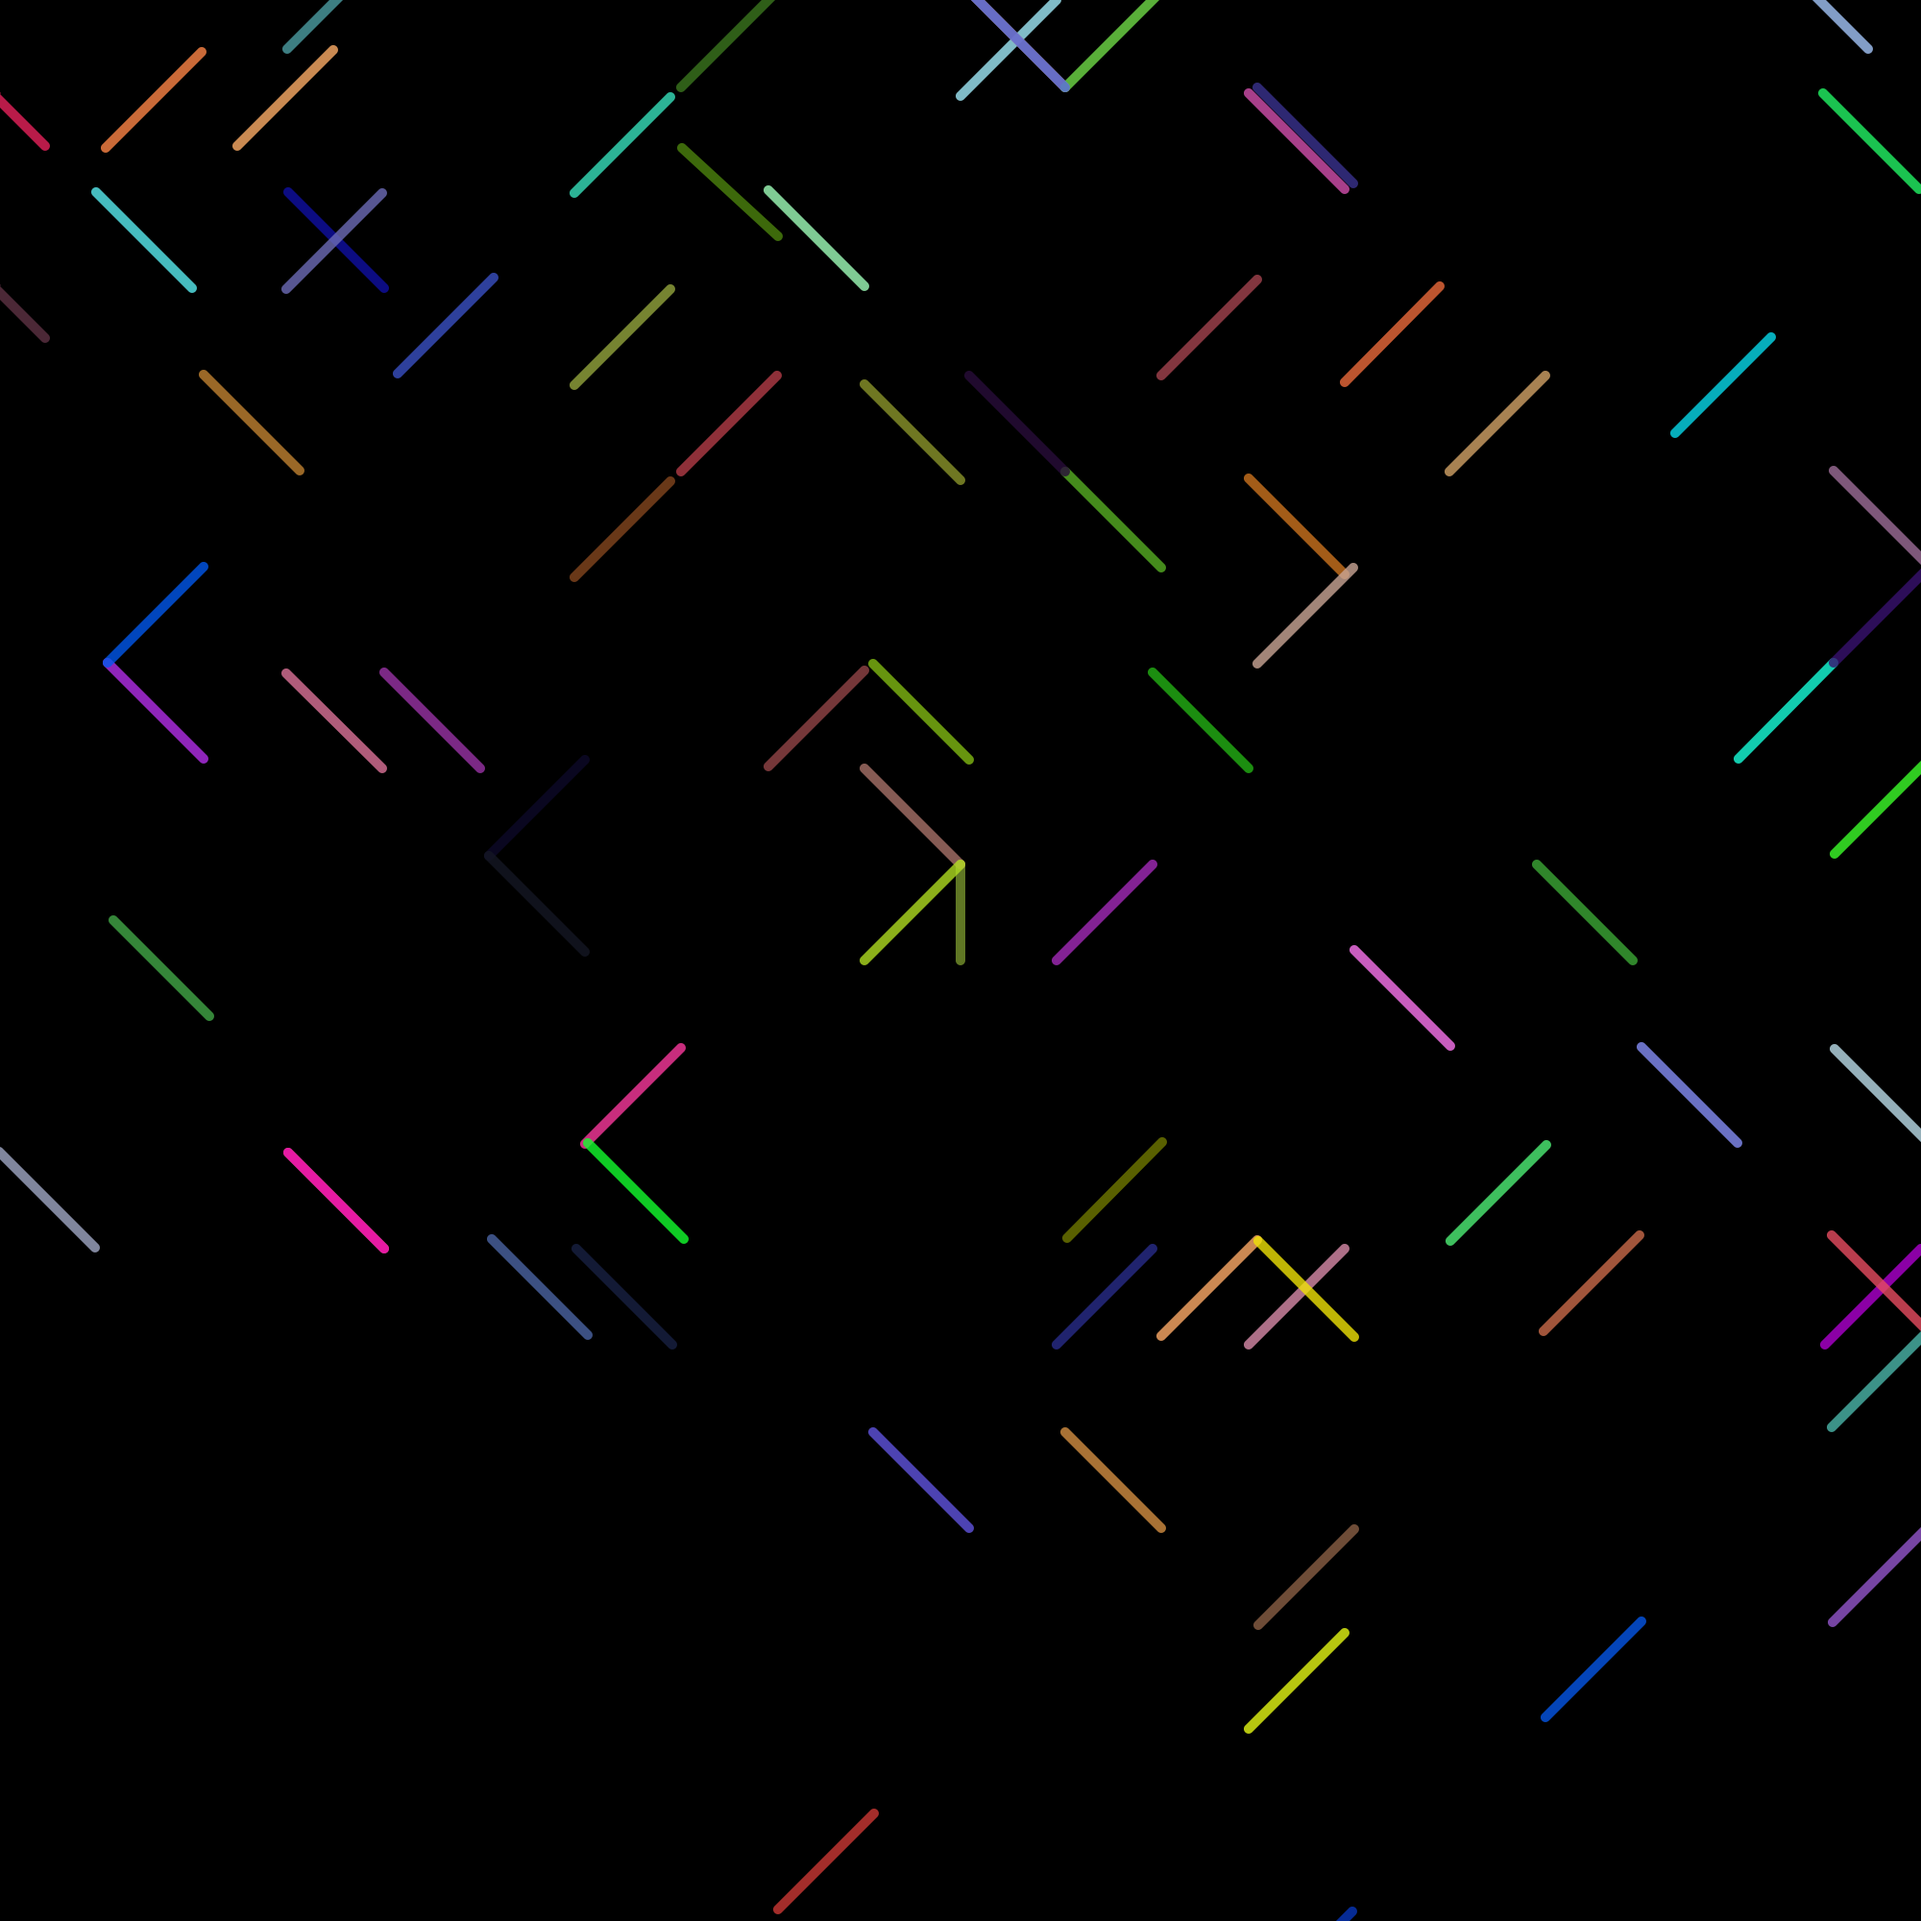
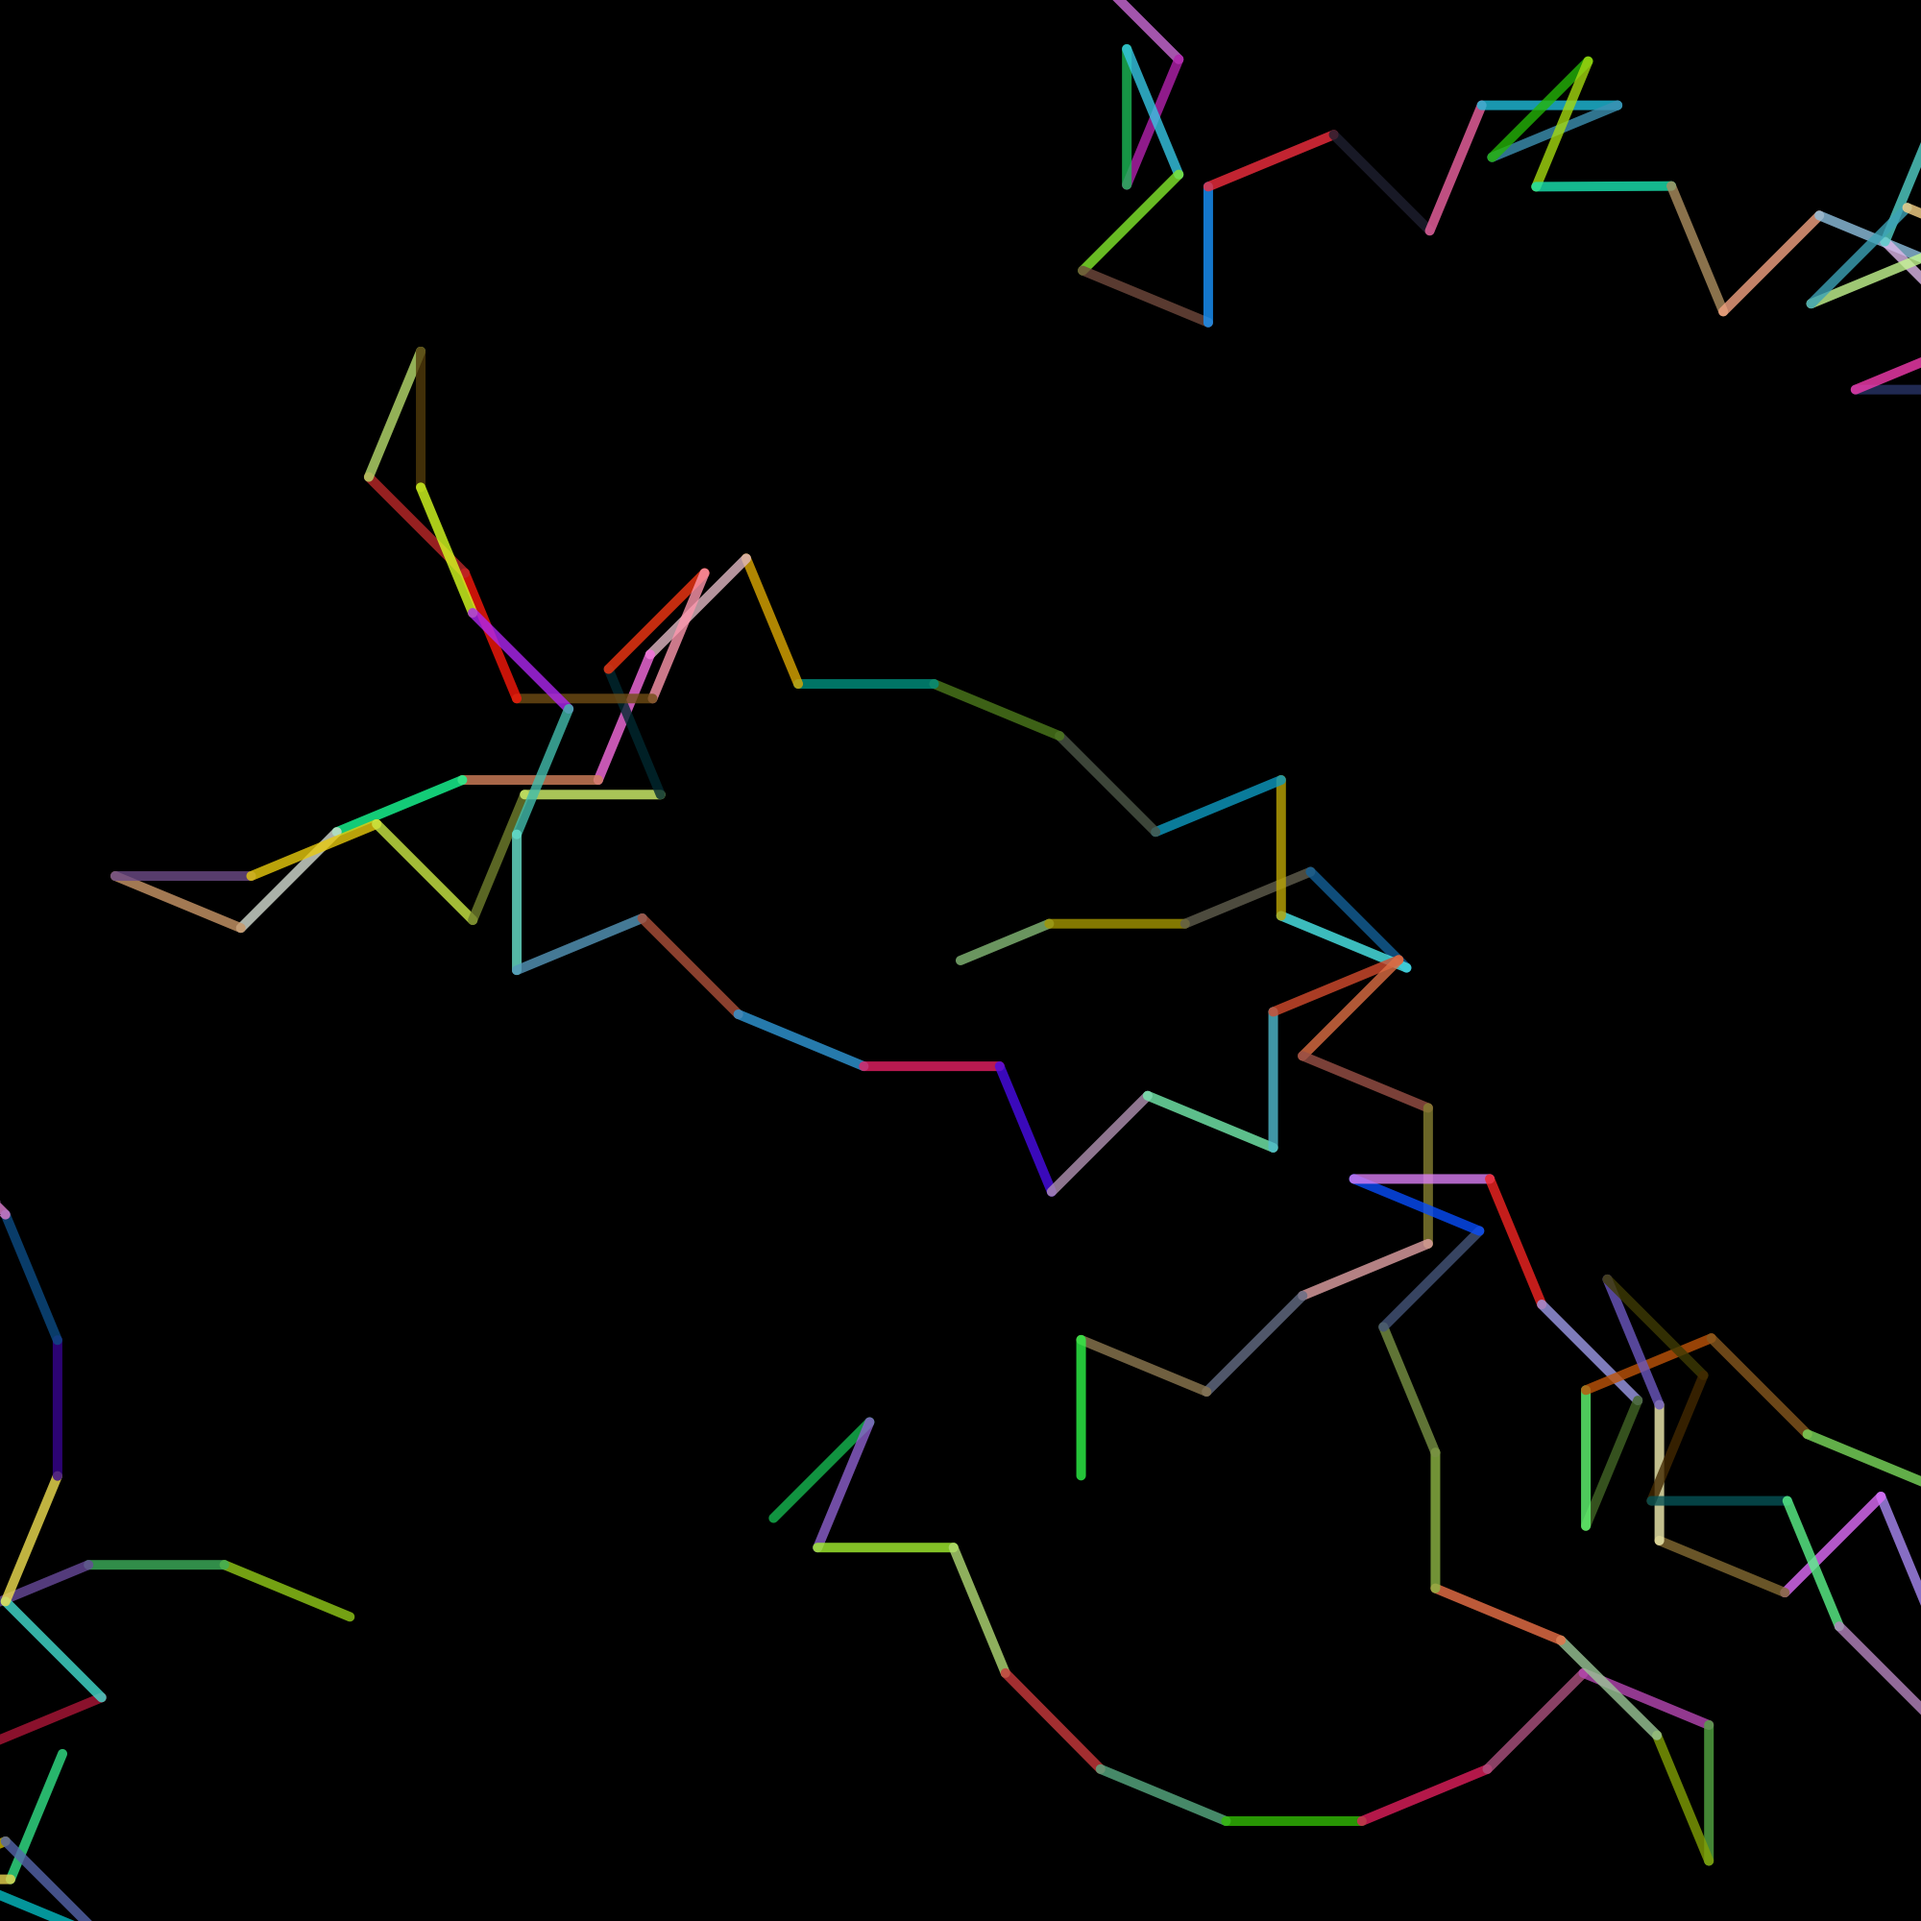
trying different params

diff --git a/main.go b/main.go
@@ -44,14 +44,14 @@ func getFFTCoeffs(filePath string, ts int) []complex128 {
 func drawSection(dc *gg.Context, section []complex128, cx, cy float64, rotationFactor float64) {
 	dc.MoveTo(cx, cy)
 	rand.Seed(time.Now().UnixNano())
-	dc.RotateAbout(-math.Pi/rotationFactor, cx, cy)
+	dc.RotateAbout(-math.Pi/8, cx, cy)
 	currentX, currentY := cx, cy
 	for _, num := range section {
 		x, y := real(num), imag(num)
 		x, y = normalize(x), normalize(y)
 		dc.MoveTo(currentX, currentY)
 		dc.LineTo(currentX+x, currentY+y)
-		dc.RotateAbout(-math.Pi/rotationFactor, cx+x, cy+y)
+		dc.RotateAbout(-math.Pi/8, currentX+x, currentY+y)
 		rcolor := rand.Float64()
 		gcolor := rand.Float64()
 		bcolor := rand.Float64()
@@ -87,7 +87,7 @@ func main() {
 	dc.Fill()
 	rotationFactor := float64((rand.Intn(2) + 1) * 2)
 
-	for i := 0; i < 1000; i += 1 {
+	for i := 0; i < 1000; i += 5 {
 		begin := i * 100
 		section := fftCoeffs[begin : begin+50]
 		drawSection(dc, section, cx, cy, rotationFactor)
